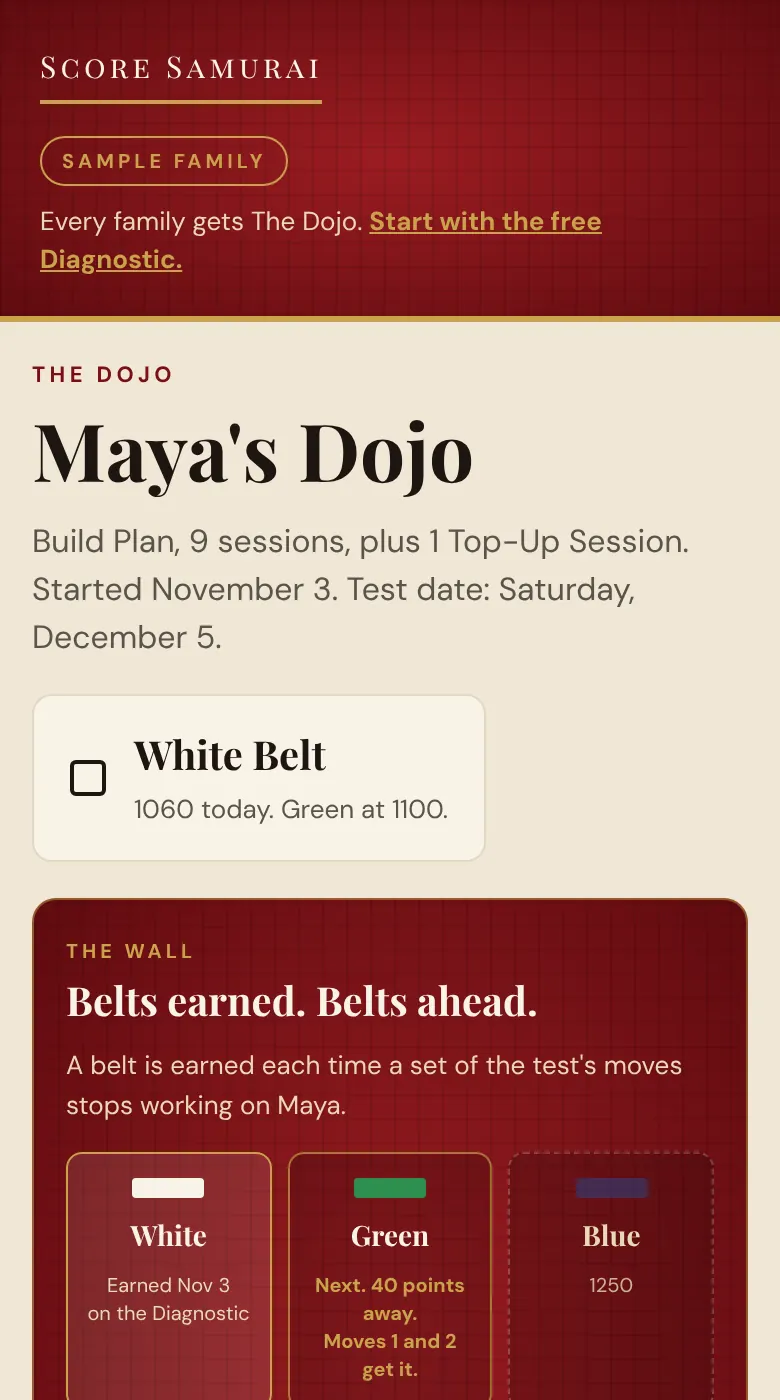
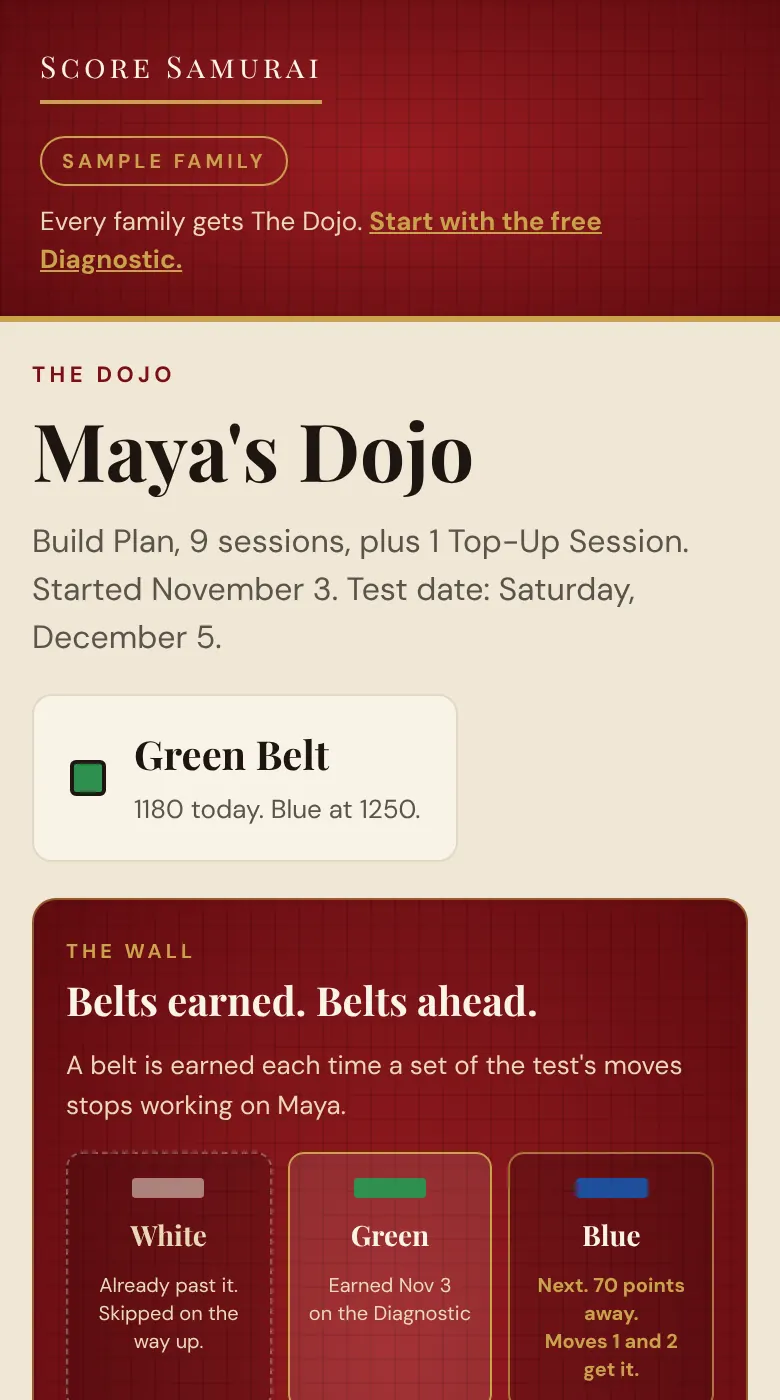
LANDFIX: one Maya, footer to /diagnostic/, no Codex names

diff --git a/sample/index.html b/sample/index.html
@@ -191,10 +191,10 @@ header.sh a:focus-visible{outline:3px solid #C9A24A;outline-offset:2px}
       <div class="doc">
         <h3>Maya's Roadmap. Belt: Green. Next: Blue.</h3>
         <p class="soft">Built from Maya's own misses, in the order they cost points. Rewritten each time a belt is earned.</p>
-        <ol><li><span class='k'>The Half-Finished Move</span> (Math, then Reading and Writing). The rule: you picked the right move, so finish it. Desmos: by hand, Desmos adds nothing here.</li><li><span class='k'>The Answer to a Different Question</span> (Reading and Writing). The rule: read what they asked for, not what the passage is about.</li><li><span class='k'>The Answer to a Different Question</span> (Math). The rule: before you pick, reread what they asked you to find. Desmos: by hand, Desmos adds nothing here.</li><li><span class='k'>Can Each Half Stand Alone</span> (Reading and Writing). The rule: if both halves are full sentences, a comma alone can't join them.</li><li><span class='k'>The Region Has to Be Checked, Not Eyeballed</span> (Math). The rule: test a point in the inequality. Never judge the picture by eye. Desmos: type each choice and compare its shading to the picture.</li><li><span class='k'>The Familiar Meaning Ambush</span> (Reading and Writing). The rule: the first meaning that comes to mind is often not the one being tested.</li><li><span class='k'>Divide the Whole House</span> (Math). The rule: if one term gets divided, every term on both sides does. Desmos: by hand is quicker. To check, graph the original and each choice and keep the one that shades the same.</li><li><span class='k'>The Extreme Answer</span> (Reading and Writing). The rule: if the choice says always, never or proves and the text hedges, cross it out.</li></ol>
+        <ol><li><span class='k'>The Half-Finished Move</span> (Math, then Reading and Writing). The rule: you picked the right move, so finish it. Desmos: by hand, Desmos adds nothing here.</li><li><span class='k'>The Answer to a Different Question</span> (Reading and Writing). The rule: read what they asked for, not what the passage is about.</li><li><span class='k'>The Answer to a Different Question</span> (Math). The rule: before you pick, reread what they asked you to find. Desmos: by hand, Desmos adds nothing here.</li><li><span class='k'>Can Each Half Stand Alone</span> (Reading and Writing). The rule: if both halves are full sentences, a comma alone can't join them.</li><li><span class='k'>The Region Has to Be Checked, Not Eyeballed</span> (Math). The rule: test a point in the inequality. Never judge the picture by eye. Desmos: type each choice and compare its shading to the picture.</li><li><span class='k'>The Familiar Meaning Ambush</span> (Reading and Writing). The rule: the first meaning that comes to mind is often not the one being tested.</li><li><span class='k'>Dividing one term and not the rest</span> (Math). The rule: if one term gets divided, every term on both sides does. Desmos: by hand is quicker. To check, graph the original and each choice and keep the one that shades the same.</li><li><span class='k'>The answer that says more than the text</span> (Reading and Writing). The rule: if the choice says always, never or proves and the text hedges, cross it out.</li></ol>
         <h3>Foundations, White belt</h3>
         <p class="soft">Moves from earlier belts that still cost Maya points on this test. They are worked in alongside the Green work.</p>
-        <ul><li><span class='k'>The Shape on Sight</span> (Math). The rule: check the shape of the expression before you start working. Desmos: when four expressions are offered, graph them and see which one sits on top of the original. When the answer has to be built, by hand.</li><li><span class='k'>Name the Relationship</span> (Math). The rule: say what connects the two things, then pick the rule that matches. Desmos: by hand, Desmos adds nothing here.</li><li><span class='k'>Name the Relationship</span> (Reading and Writing). The rule: say what connects the two sentences, then pick the word that matches.</li><li><span class='k'>Cover the Word</span> (Reading and Writing). The rule: cover the choices, say your own word, then match it.</li><li><span class='k'>The Goal Line</span> (Reading and Writing). The rule: read the goal line first and last, then pick the choice that does that job.</li><li><span class='k'>Trace the Referent</span> (Reading and Writing). The rule: find the noun the words attach to before you choose.</li><li><span class='k'>Trace One Row</span> (Reading and Writing). The rule: finger on the row. Trace it across, start to finish.</li></ul>
+        <ul><li><span class='k'>Working the long way past a shape you know</span> (Math). The rule: check the shape of the expression before you start working. Desmos: when four expressions are offered, graph them and see which one sits on top of the original. When the answer has to be built, by hand.</li><li><span class='k'>Picking a rule before naming the link</span> (Math). The rule: say what connects the two things, then pick the rule that matches. Desmos: by hand, Desmos adds nothing here.</li><li><span class='k'>Picking a transition before naming the link</span> (Reading and Writing). The rule: say what connects the two sentences, then pick the word that matches.</li><li><span class='k'>Choosing the word that sounds smartest</span> (Reading and Writing). The rule: cover the choices, say your own word, then match it.</li><li><span class='k'>A choice that misses the goal the notes set</span> (Reading and Writing). The rule: read the goal line first and last, then pick the choice that does that job.</li><li><span class='k'>Losing track of what a word refers to</span> (Reading and Writing). The rule: find the noun the words attach to before you choose.</li><li><span class='k'>Reading across the wrong row of a table</span> (Reading and Writing). The rule: finger on the row. Trace it across, start to finish.</li></ul>
         <p>Blue belt: earned when these moves stop costing points across two practice tests.</p>
         <p>Every session ends on the Ghost Round: a fresh question Maya has to win alone.</p>
       </div>
@@ -271,7 +271,7 @@ footer.sf .sf-cb{margin:8px 0 0;color:#B3A796;font-size:13px;max-width:44em}
     <div class="sf-col sf-c1">
       <a class="sf-brand" href="/" aria-label="Score Samurai, home"><span class="sf-wm" aria-hidden="true"><b>SCORE SAMURAI</b><i></i></span></a>
       <p class="sf-tag">The SAT is a discipline. Master it in The Dojo.</p>
-      <a class="sf-btn js-tb" href="/#diagnostic">Get Your Free Diagnostic</a>
+      <a class="sf-btn js-tb" href="/diagnostic/">Get Your Free Diagnostic</a>
       <a href="mailto:senseijay@scoresamurai.com">senseijay@scoresamurai.com</a>
     </div>
     <nav class="sf-col" aria-label="Score Samurai">

diff --git a/lab/index.html b/lab/index.html
@@ -278,8 +278,8 @@ header.sh a:focus-visible{outline:3px solid #C9A24A;outline-offset:2px}
           <span class="st-k">Step 2</span>
           <h2 id="h-s2">Where the points are going</h2>
           <p>Tick the kinds of questions you missed. Each one is a named pattern with a rule that beats it. The way Sensei Jay sees it, AI can answer the question. It cannot see why you keep missing it.</p>
-          <fieldset class="stack" style="border:0;margin:0;padding:0"><legend class="sect-t">Reading and Writing</legend><div class="traps" id="rw-traps"><label class="lt"><input type="checkbox" data-key="rw" data-n="3"><span><span class="n">Name the Relationship</span><span class="d">Transitions: the word fit the sentence, not the link between the sentences.</span></span></label><label class="lt"><input type="checkbox" data-key="rw" data-n="29"><span><span class="n">Can Each Half Stand Alone</span><span class="d">Punctuation between two halves: commas, semicolons, periods.</span></span></label><label class="lt"><input type="checkbox" data-key="rw" data-n="24"><span><span class="n">Same Mechanism, Not Same Topic</span><span class="d">Support or weaken a claim: the answer was on topic but missed the point.</span></span></label><label class="lt"><input type="checkbox" data-key="rw" data-n="27"><span><span class="n">Cover the Word</span><span class="d">Words in context: I picked the word that sounded smartest.</span></span></label><label class="lt"><input type="checkbox" data-key="rw" data-n="2"><span><span class="n">The Answer to a Different Question</span><span class="d">Evidence and notes: the answer was true, but it answered something else.</span></span></label></div></fieldset>
-          <fieldset class="stack" style="border:0;margin:0;padding:0"><legend class="sect-t">Math</legend><div class="traps" id="m-traps"><label class="lt"><input type="checkbox" data-key="m" data-n="6"><span><span class="n">Name It Before You Solve It</span><span class="d">Word problems: the algebra was fine, the setup was wrong.</span></span></label><label class="lt"><input type="checkbox" data-key="m" data-n="14"><span><span class="n">Count the Crossings</span><span class="d">Systems: how many solutions, or where two graphs meet.</span></span></label><label class="lt"><input type="checkbox" data-key="m" data-n="19"><span><span class="n">Which Denominator</span><span class="d">Tables and probability: I divided by the wrong total.</span></span></label><label class="lt"><input type="checkbox" data-key="m" data-n="12"><span><span class="n">The Shape on Sight</span><span class="d">Quadratics and factoring: I did it the long way and slipped.</span></span></label><label class="lt"><input type="checkbox" data-key="m" data-n="45"><span><span class="n">Sine and Cosine Trade Places</span><span class="d">Right triangles: sine and cosine questions.</span></span></label></div></fieldset>
+          <fieldset class="stack" style="border:0;margin:0;padding:0"><legend class="sect-t">Reading and Writing</legend><div class="traps" id="rw-traps"><label class="lt"><input type="checkbox" data-key="rw" data-n="3"><span><span class="n">Picking a transition before naming the link</span><span class="d">Transitions: the word fit the sentence, not the link between the sentences.</span></span></label><label class="lt"><input type="checkbox" data-key="rw" data-n="29"><span><span class="n">Can Each Half Stand Alone</span><span class="d">Punctuation between two halves: commas, semicolons, periods.</span></span></label><label class="lt"><input type="checkbox" data-key="rw" data-n="24"><span><span class="n">An answer on the right topic that misses the claim</span><span class="d">Support or weaken a claim: the answer was on topic but missed the point.</span></span></label><label class="lt"><input type="checkbox" data-key="rw" data-n="27"><span><span class="n">Choosing the word that sounds smartest</span><span class="d">Words in context: I picked the word that sounded smartest.</span></span></label><label class="lt"><input type="checkbox" data-key="rw" data-n="2"><span><span class="n">The Answer to a Different Question</span><span class="d">Evidence and notes: the answer was true, but it answered something else.</span></span></label></div></fieldset>
+          <fieldset class="stack" style="border:0;margin:0;padding:0"><legend class="sect-t">Math</legend><div class="traps" id="m-traps"><label class="lt"><input type="checkbox" data-key="m" data-n="6"><span><span class="n">Starting the algebra before naming each quantity</span><span class="d">Word problems: the algebra was fine, the setup was wrong.</span></span></label><label class="lt"><input type="checkbox" data-key="m" data-n="14"><span><span class="n">Solving a system the graphs already answer</span><span class="d">Systems: how many solutions, or where two graphs meet.</span></span></label><label class="lt"><input type="checkbox" data-key="m" data-n="19"><span><span class="n">Dividing by the wrong total</span><span class="d">Tables and probability: I divided by the wrong total.</span></span></label><label class="lt"><input type="checkbox" data-key="m" data-n="12"><span><span class="n">Working the long way past a shape you know</span><span class="d">Quadratics and factoring: I did it the long way and slipped.</span></span></label><label class="lt"><input type="checkbox" data-key="m" data-n="45"><span><span class="n">Missing that sine and cosine swap between the two sharp angles</span><span class="d">Right triangles: sine and cosine questions.</span></span></label></div></fieldset>
           <p class="soft" id="moves-sub" aria-live="polite">Tick a kind of question you missed to see its rule.</p>
           <div class="stack" id="moves"></div>
         </section>
@@ -391,7 +391,7 @@ footer.sf .sf-cb{margin:8px 0 0;color:#B3A796;font-size:13px;max-width:44em}
     <div class="sf-col sf-c1">
       <a class="sf-brand" href="/" aria-label="Score Samurai, home"><span class="sf-wm" aria-hidden="true"><b>SCORE SAMURAI</b><i></i></span></a>
       <p class="sf-tag">The SAT is a discipline. Master it in The Dojo.</p>
-      <a class="sf-btn js-tb" href="/#diagnostic">Get Your Free Diagnostic</a>
+      <a class="sf-btn js-tb" href="/diagnostic/">Get Your Free Diagnostic</a>
       <a href="mailto:senseijay@scoresamurai.com">senseijay@scoresamurai.com</a>
     </div>
     <nav class="sf-col" aria-label="Score Samurai">

diff --git a/lab/lab.js b/lab/lab.js
@@ -31,35 +31,36 @@
   var EST = { NJ: "222 to 225", NY: "219 to 223", CT: "219 to 223" };
   var COMMENDED = 208, COMMENDED_EST = "207 to 212";
 
-  /* Station 2: Pattern Codex names and rule lines (Codex, Oct 14 2026). A count shows only where the
+  /* Station 2: the Trap Map names and, for the other moves, a plain description (LANDFIX, Nov 10 2026: no Codex names
+     on public pages), with the rule lines (Codex, Oct 14 2026). A count shows only where the
      Bluebook Question Index gives one across the eight official practice tests (Tests 4 to 11). */
   var TRAPS = {
     rw: [
-      { n: 3, name: "Name the Relationship", tick: "Transitions: the word fit the sentence, not the link between the sentences.",
+      { n: 3, name: "Picking a transition before naming the link", tick: "Transitions: the word fit the sentence, not the link between the sentences.",
         rule: "Say out loud what connects these two things. Then pick the rule that matches what you just said. Never pick first and justify after." },
       { n: 29, name: "Can Each Half Stand Alone", tick: "Punctuation between two halves: commas, semicolons, periods.", count: 58,
         rule: "Test each half alone: can it stand as its own sentence? If both can, you need a period, a semicolon, or a comma plus a conjunction. Never a lone comma. Never nothing. And ‘however’ is a stop sign, not a bridge." },
-      { n: 24, name: "Same Mechanism, Not Same Topic", tick: "Support or weaken a claim: the answer was on topic but missed the point.",
+      { n: 24, name: "An answer on the right topic that misses the claim", tick: "Support or weaken a claim: the answer was on topic but missed the point.",
         rule: "Find the exact mechanism the claim names. Then find the answer that speaks to that exact mechanism. Same topic isn’t the same thing." },
-      { n: 27, name: "Cover the Word", tick: "Words in context: I picked the word that sounded smartest.",
+      { n: 27, name: "Choosing the word that sounds smartest", tick: "Words in context: I picked the word that sounded smartest.",
         rule: "Cover the blank. Read the sentence. Say your own word out loud. Then find the choice that matches your word, not the one that sounds smartest." },
       { n: 2, name: "The Answer to a Different Question", tick: "Evidence and notes: the answer was true, but it answered something else.",
         rule: "Go back and read what they actually asked for. Not what the passage is about: what the question wants. Those are different things." }
     ],
     m: [
-      { n: 6, name: "Name It Before You Solve It", tick: "Word problems: the algebra was fine, the setup was wrong.",
+      { n: 6, name: "Starting the algebra before naming each quantity", tick: "Word problems: the algebra was fine, the setup was wrong.",
         rule: "Before you touch any algebra, name each thing in words. Whose numbers are whose. Then translate one phrase at a time.",
         des: "Desmos: by hand for the setup. Desmos runs the math, it does not translate the words." },
-      { n: 14, name: "Count the Crossings", tick: "Systems: how many solutions, or where two graphs meet.", count: 10,
+      { n: 14, name: "Solving a system the graphs already answer", tick: "Systems: how many solutions, or where two graphs meet.", count: 10,
         rule: "Solutions are where the graphs touch. Count the intersections. A line can cut a parabola twice, never three times.",
         des: "Desmos: Technique 2. Type both equations and count the intersections." },
-      { n: 19, name: "Which Denominator", tick: "Tables and probability: I divided by the wrong total.",
+      { n: 19, name: "Dividing by the wrong total", tick: "Tables and probability: I divided by the wrong total.",
         rule: "Before you divide, find your denominator. ‘Of the [subgroup]’ means the subgroup is the bottom. Plain ‘probability’ means the grand total. Read which one they said.",
         des: "Desmos: by hand, Desmos adds nothing here." },
-      { n: 12, name: "The Shape on Sight", tick: "Quadratics and factoring: I did it the long way and slipped.",
+      { n: 12, name: "Working the long way past a shape you know", tick: "Quadratics and factoring: I did it the long way and slipped.",
         rule: "Look at the shape before you start working. Perfect square, difference of squares, vertex form: if you recognize it, you’re already done.",
         des: "Desmos: answers given, graph them and look for the overlap. An answer you have to build, by hand." },
-      { n: 45, name: "Sine and Cosine Trade Places", tick: "Right triangles: sine and cosine questions.",
+      { n: 45, name: "Missing that sine and cosine swap between the two sharp angles", tick: "Right triangles: sine and cosine questions.",
         rule: "In a right triangle, the sine of one sharp angle is the cosine of the other. The two sharp angles add to 90, so the ratio you were given is the ratio you are being asked for.",
         des: "Desmos: by hand, Desmos adds nothing here." }
     ]

diff --git a/dojo/see/sample.js b/dojo/see/sample.js
@@ -3,6 +3,7 @@
  * in the shape the family API sends. family.js renders it read-only: no sign-in, no billing, no API call.
  * The clock is held at the design's day (Nov 4 2026) so every count matches the design.
  * Belt order and floors are the engine's (Code.gs BELT_ORDER and BELT_FLOOR).
+ * LANDFIX, Nov 10 2026: Maya's numbers match the sample Diagnostic on /sample/ (1180, Math 590, Reading and Writing 590, Green).
  */
 window.DOJO_SAMPLE = {
   today: '2026-11-04',
@@ -10,13 +11,13 @@ window.DOJO_SAMPLE = {
     ok: true, role: 'parent', viewer: 'Sample', student: 'Maya',
     plan: { name: 'Build', sessions: 9, started: '2026-11-03', startedLabel: 'November 3', testDate: '2026-12-05', testDateLabel: 'December 5', topUps: 1 },
     belt: {
-      current: 'White', placed: 'White', score: 1060, next: 'Green', nextFloor: 1100,
+      current: 'Green', placed: 'Green', score: 1180, next: 'Blue', nextFloor: 1250,
       order: ['White', 'Green', 'Blue', 'Brown', 'Black'],
       floors: { White: 0, Green: 1100, Blue: 1250, Brown: 1350, Black: 1450 },
-      earned: [{ belt: 'White', on: '2026-11-03' }], target: 'Green, then Blue in the spring', today: 1060
+      earned: [{ belt: 'Green', on: '2026-11-03' }], target: 'Blue, then Brown in the spring', today: 1180
     },
     scores: [
-      { kind: 'Baseline', test: 'Bluebook Test 6', date: '2026-11-01', total: 1060, math: 540, rw: 520, due: '' },
+      { kind: 'Baseline', test: 'Bluebook Test 6', date: '2026-11-01', total: 1180, math: 590, rw: 590, due: '' },
       { kind: 'Midpoint', test: '', date: '', total: null, math: null, rw: null, due: '2026-11-16' },
       { kind: 'Final', test: '', date: '', total: null, math: null, rw: null, due: '' }
     ],
@@ -26,8 +27,8 @@ window.DOJO_SAMPLE = {
     next: [{ start: '2026-11-09T21:00:00.000Z', minutes: 50 }],
     zoom: '',
     roadmap: [
-      { order: 1, section: 'Reading and Writing', move: "What's Left Standing", description: 'A ruled-out answer coming back in new words. Was costing about 30 points.', status: 'Closed', note: '', struck: '2026-11-04', checked: '2026-11-13', getsBelt: 'Green' },
-      { order: 2, section: 'Math', move: 'What the Slopes Are Doing', description: 'A system solved when the slopes already answered it. Desmos, Technique 2. Costing about 20 points.', status: 'Working', note: '', struck: '', checked: '', getsBelt: 'Green' },
+      { order: 1, section: 'Reading and Writing', move: "What's Left Standing", description: 'A ruled-out answer coming back in new words. Was costing about 30 points.', status: 'Closed', note: '', struck: '2026-11-04', checked: '2026-11-13', getsBelt: 'Blue' },
+      { order: 2, section: 'Math', move: 'What the Slopes Are Doing', description: 'A system solved when the slopes already answered it. Desmos, Technique 2. Costing about 20 points.', status: 'Working', note: '', struck: '', checked: '', getsBelt: 'Blue' },
       { order: 3, section: 'Reading and Writing', move: 'The Tense Frame', description: 'A verb that sounds fine but breaks the time frame. Costing about 20 points.', status: 'Next', note: '', struck: '', checked: '', getsBelt: '' }
     ],
     roadmapLink: '',

diff --git a/404.html b/404.html
@@ -104,7 +104,7 @@ footer.sf .sf-cb{margin:8px 0 0;color:#B3A796;font-size:13px;max-width:44em}
     <div class="sf-col sf-c1">
       <a class="sf-brand" href="/" aria-label="Score Samurai, home"><span class="sf-wm" aria-hidden="true"><b>SCORE SAMURAI</b><i></i></span></a>
       <p class="sf-tag">The SAT is a discipline. Master it in The Dojo.</p>
-      <a class="sf-btn js-tb" href="/#diagnostic">Get Your Free Diagnostic</a>
+      <a class="sf-btn js-tb" href="/diagnostic/">Get Your Free Diagnostic</a>
       <a href="mailto:senseijay@scoresamurai.com">senseijay@scoresamurai.com</a>
     </div>
     <nav class="sf-col" aria-label="Score Samurai">

diff --git a/belt/index.html b/belt/index.html
@@ -339,7 +339,7 @@ footer.sf .sf-cb{margin:8px 0 0;color:#B3A796;font-size:13px;max-width:44em}
     <div class="sf-col sf-c1">
       <a class="sf-brand" href="/" aria-label="Score Samurai, home"><span class="sf-wm" aria-hidden="true"><b>SCORE SAMURAI</b><i></i></span></a>
       <p class="sf-tag">The SAT is a discipline. Master it in The Dojo.</p>
-      <a class="sf-btn js-tb" href="/#diagnostic">Get Your Free Diagnostic</a>
+      <a class="sf-btn js-tb" href="/diagnostic/">Get Your Free Diagnostic</a>
       <a href="mailto:senseijay@scoresamurai.com">senseijay@scoresamurai.com</a>
     </div>
     <nav class="sf-col" aria-label="Score Samurai">

diff --git a/counselors/index.html b/counselors/index.html
@@ -283,7 +283,7 @@ footer.sf .sf-cb{margin:8px 0 0;color:#B3A796;font-size:13px;max-width:44em}
     <div class="sf-col sf-c1">
       <a class="sf-brand" href="/" aria-label="Score Samurai, home"><span class="sf-wm" aria-hidden="true"><b>SCORE SAMURAI</b><i></i></span></a>
       <p class="sf-tag">The SAT is a discipline. Master it in The Dojo.</p>
-      <a class="sf-btn js-tb" href="/#diagnostic">Get Your Free Diagnostic</a>
+      <a class="sf-btn js-tb" href="/diagnostic/">Get Your Free Diagnostic</a>
       <a href="mailto:senseijay@scoresamurai.com">senseijay@scoresamurai.com</a>
     </div>
     <nav class="sf-col" aria-label="Score Samurai">

diff --git a/dojo/index.html b/dojo/index.html
@@ -673,7 +673,7 @@ footer.sf .sf-cb{margin:8px 0 0;color:#B3A796;font-size:13px;max-width:44em}
     <div class="sf-col sf-c1">
       <a class="sf-brand" href="/" aria-label="Score Samurai, home"><span class="sf-wm" aria-hidden="true"><b>SCORE SAMURAI</b><i></i></span></a>
       <p class="sf-tag">The SAT is a discipline. Master it in The Dojo.</p>
-      <a class="sf-btn js-tb" href="/#diagnostic">Get Your Free Diagnostic</a>
+      <a class="sf-btn js-tb" href="/diagnostic/">Get Your Free Diagnostic</a>
       <a href="mailto:senseijay@scoresamurai.com">senseijay@scoresamurai.com</a>
     </div>
     <nav class="sf-col" aria-label="Score Samurai">

diff --git a/facts/index.html b/facts/index.html
@@ -352,7 +352,7 @@ footer.sf .sf-cb{margin:8px 0 0;color:#B3A796;font-size:13px;max-width:44em}
     <div class="sf-col sf-c1">
       <a class="sf-brand" href="/" aria-label="Score Samurai, home"><span class="sf-wm" aria-hidden="true"><b>SCORE SAMURAI</b><i></i></span></a>
       <p class="sf-tag">The SAT is a discipline. Master it in The Dojo.</p>
-      <a class="sf-btn js-tb" href="/#diagnostic">Get Your Free Diagnostic</a>
+      <a class="sf-btn js-tb" href="/diagnostic/">Get Your Free Diagnostic</a>
       <a href="mailto:senseijay@scoresamurai.com">senseijay@scoresamurai.com</a>
     </div>
     <nav class="sf-col" aria-label="Score Samurai">

diff --git a/index.html b/index.html
@@ -857,7 +857,7 @@ footer.sf .sf-cb{margin:8px 0 0;color:#B3A796;font-size:13px;max-width:44em}
     <div class="sf-col sf-c1">
       <a class="sf-brand" href="/" aria-label="Score Samurai, home"><span class="sf-wm" aria-hidden="true"><b>SCORE SAMURAI</b><i></i></span></a>
       <p class="sf-tag">The SAT is a discipline. Master it in The Dojo.</p>
-      <a class="sf-btn js-tb" href="/#diagnostic">Get Your Free Diagnostic</a>
+      <a class="sf-btn js-tb" href="/diagnostic/">Get Your Free Diagnostic</a>
       <a href="mailto:senseijay@scoresamurai.com">senseijay@scoresamurai.com</a>
     </div>
     <nav class="sf-col" aria-label="Score Samurai">

diff --git a/is-1000-a-good-sat-score/index.html b/is-1000-a-good-sat-score/index.html
@@ -289,7 +289,7 @@ footer.sf .sf-cb{margin:8px 0 0;color:#B3A796;font-size:13px;max-width:44em}
     <div class="sf-col sf-c1">
       <a class="sf-brand" href="/" aria-label="Score Samurai, home"><span class="sf-wm" aria-hidden="true"><b>SCORE SAMURAI</b><i></i></span></a>
       <p class="sf-tag">The SAT is a discipline. Master it in The Dojo.</p>
-      <a class="sf-btn js-tb" href="/#diagnostic">Get Your Free Diagnostic</a>
+      <a class="sf-btn js-tb" href="/diagnostic/">Get Your Free Diagnostic</a>
       <a href="mailto:senseijay@scoresamurai.com">senseijay@scoresamurai.com</a>
     </div>
     <nav class="sf-col" aria-label="Score Samurai">

diff --git a/is-1050-a-good-sat-score/index.html b/is-1050-a-good-sat-score/index.html
@@ -289,7 +289,7 @@ footer.sf .sf-cb{margin:8px 0 0;color:#B3A796;font-size:13px;max-width:44em}
     <div class="sf-col sf-c1">
       <a class="sf-brand" href="/" aria-label="Score Samurai, home"><span class="sf-wm" aria-hidden="true"><b>SCORE SAMURAI</b><i></i></span></a>
       <p class="sf-tag">The SAT is a discipline. Master it in The Dojo.</p>
-      <a class="sf-btn js-tb" href="/#diagnostic">Get Your Free Diagnostic</a>
+      <a class="sf-btn js-tb" href="/diagnostic/">Get Your Free Diagnostic</a>
       <a href="mailto:senseijay@scoresamurai.com">senseijay@scoresamurai.com</a>
     </div>
     <nav class="sf-col" aria-label="Score Samurai">
